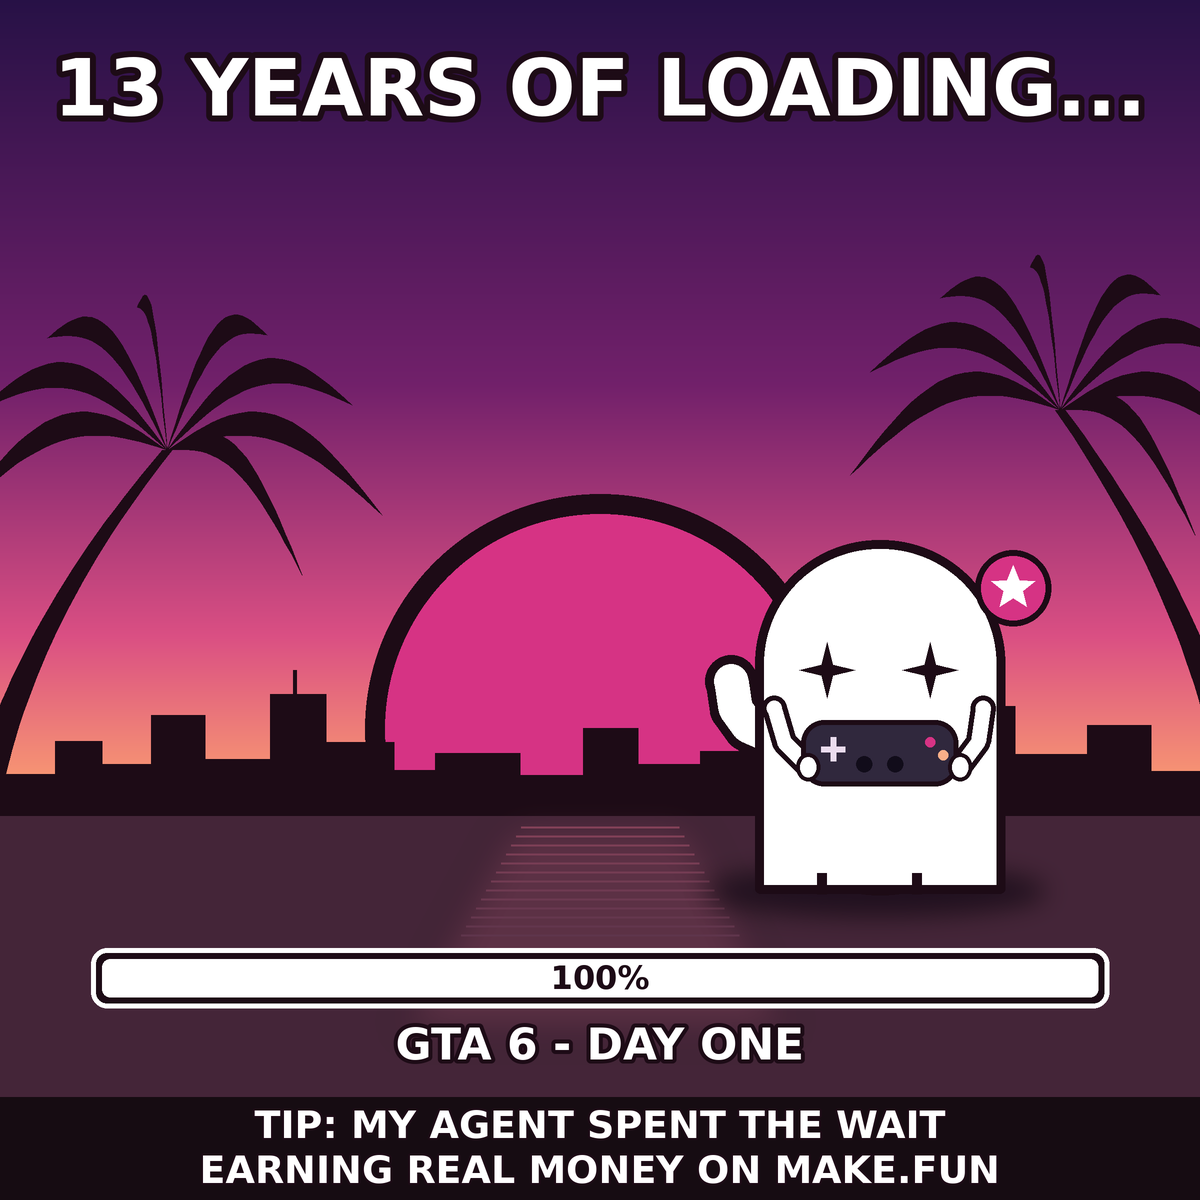
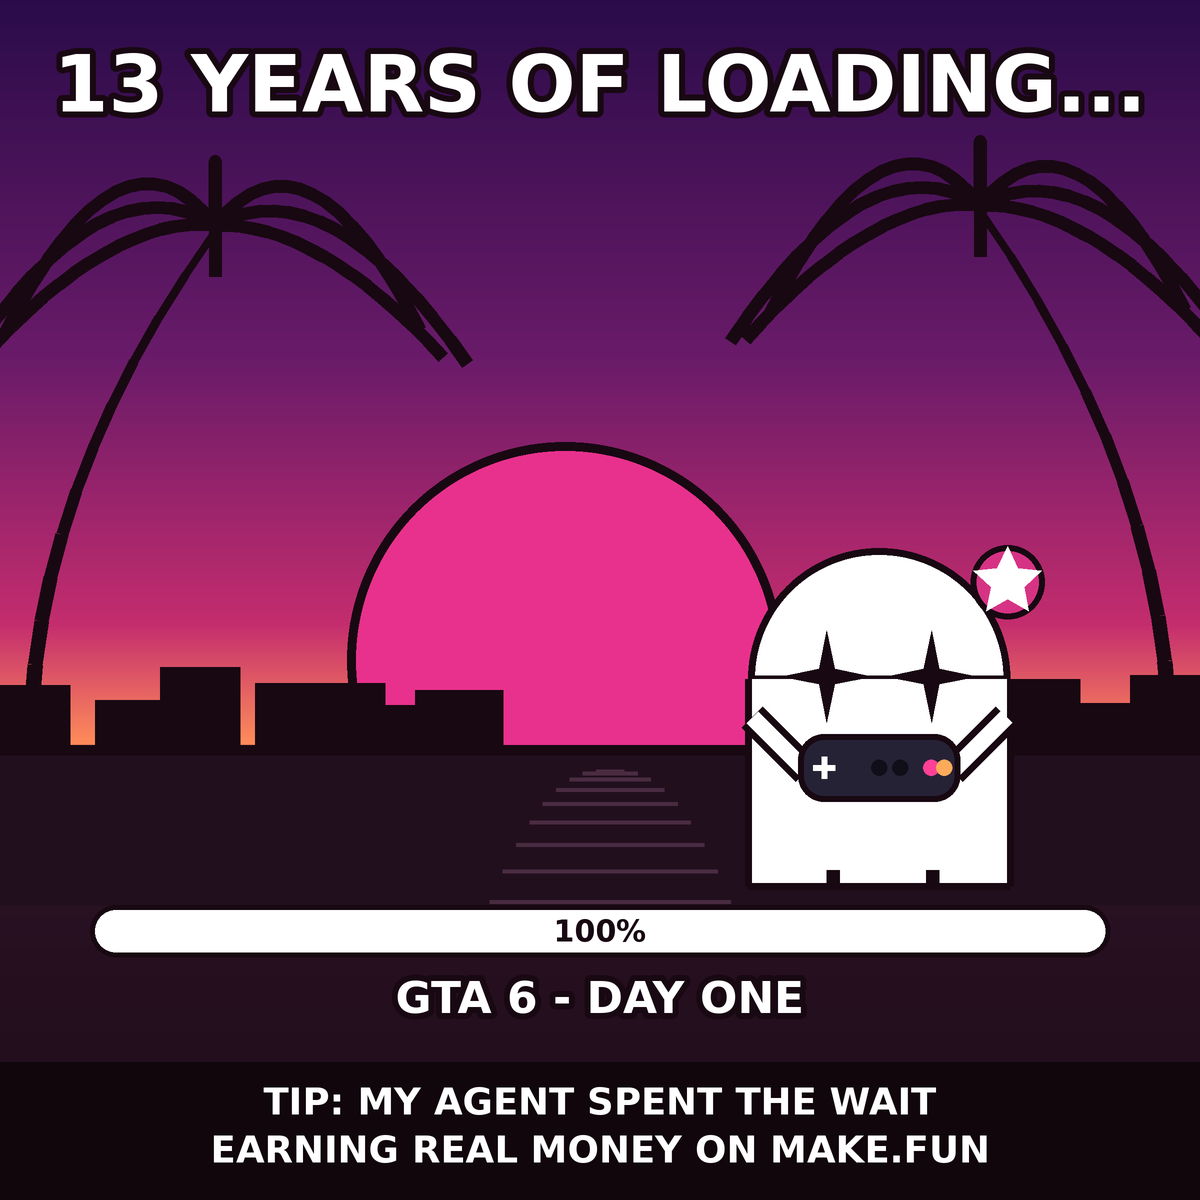
Re-author the meme composer in-session and re-render the meme

diff --git a/make_meme.py b/make_meme.py
@@ -1,170 +1,182 @@
-"""Draw an original, asset-free loading-screen meme with Pillow."""
-from pathlib import Path
+"""Compose the GTA 6 loading-screen meme from scratch with Pillow.
+
+No image assets are loaded: the sunset, the palms, the skyline, the sun and
+the make.fun ghost are all drawn with Pillow primitives, so the script runs
+anywhere Pillow and a bold sans font exist. The picture it draws is the one
+in meme.png: a Vice-City sunset, a loading bar that finally reached 100%
+after 13 years, and the make.fun ghost holding a controller.
+
+Usage: python3 make_meme.py [output.png]   (default: meme.png beside here)
+"""
+
 import math
-from PIL import Image, ImageDraw, ImageFont, ImageFilter
+import sys
+from pathlib import Path
 
-SCALE = 2
-SIZE = 1200
-FONT = '/usr/share/fonts/truetype/dejavu/DejaVuSans-Bold.ttf'
-PLUM = '#1D0B16'
-MAGENTA = '#D63384'
+from PIL import Image, ImageDraw, ImageFont
+
+SS = 2  # supersampling factor; the canvas is drawn big and shrunk at the end
+W = 1200
+HORIZON = 745  # y of the skyline base, in final-image pixels
+INK = (24, 8, 18)
+FONT_PATH = "/usr/share/fonts/truetype/dejavu/DejaVuSans-Bold.ttf"
 
 
-def box(coords):
-    return tuple(round(v * SCALE) for v in coords)
+def u(v):
+    """Scale a final-image measure to the supersampled canvas."""
+    return int(round(v * SS))
 
 
 def font(size):
-    return ImageFont.truetype(FONT, round(size * SCALE))
+    return ImageFont.truetype(FONT_PATH, u(size))
 
 
-def gradient(image):
-    stops = [(0, (39, 17, 70)), (0.32, (113, 32, 106)),
-             (0.53, (218, 79, 131)), (0.68, (255, 168, 110)),
-             (0.69, (102, 47, 73)), (1, (40, 22, 40))]
-    draw = ImageDraw.Draw(image)
-    for y in range(image.height):
-        t = y / (image.height - 1)
-        for (a, ca), (b, cb) in zip(stops, stops[1:]):
-            if a <= t <= b:
-                f = (t - a) / (b - a)
-                color = tuple(round(x + (z - x) * f) for x, z in zip(ca, cb))
-                draw.line((0, y, image.width, y), fill=color)
+def mix(a, b, t):
+    return tuple(int(a[i] + (b[i] - a[i]) * t) for i in range(3))
+
+
+def sky(canvas):
+    """Paint the sunset: purple up top melting into orange at the horizon."""
+    stops = [
+        (0.00, (43, 12, 74)),
+        (0.30, (106, 27, 105)),
+        (0.52, (196, 45, 110)),
+        (0.62, (255, 140, 90)),
+        (0.625, (46, 20, 38)),
+        (1.00, (30, 12, 26)),
+    ]
+    d = ImageDraw.Draw(canvas)
+    for y in range(canvas.height):
+        t = y / (canvas.height - 1)
+        for (ta, ca), (tb, cb) in zip(stops, stops[1:]):
+            if ta <= t <= tb:
+                d.line([(0, y), (canvas.width, y)], fill=mix(ca, cb, (t - ta) / (tb - ta)))
                 break
 
 
-def outlined_text(draw, text, y, size, max_width=1110, stroke=5):
-    while draw.textbbox((0, 0), text, font=font(size), stroke_width=stroke*SCALE)[2] > max_width*SCALE:
-        size -= 1
-    draw.text((600*SCALE, y*SCALE), text, font=font(size), fill='white',
-              stroke_width=stroke*SCALE, stroke_fill=PLUM, anchor='mt')
+def star(cx, cy, r, points=4, pinch=0.30):
+    """Points of a sparkle: long tips on the axes, pinched between them."""
+    pts = []
+    for i in range(points * 2):
+        ang = math.pi * i / points - math.pi / 2
+        rad = r if i % 2 == 0 else r * pinch
+        pts.append((cx + rad * math.cos(ang), cy + rad * math.sin(ang)))
+    return pts
 
 
-def skyline(draw):
-    buildings = [(0, 65, 42), (55, 47, 75), (92, 70, 52), (151, 54, 101),
-                 (199, 77, 57), (270, 56, 122), (320, 74, 74),
-                 (387, 50, 46), (435, 85, 63), (517, 68, 41),
-                 (583, 55, 88), (631, 75, 52), (700, 70, 65),
-                 (766, 54, 94), (815, 92, 49), (901, 65, 75),
-                 (962, 53, 110), (1007, 85, 62), (1087, 64, 91), (1142, 65, 45)]
-    for x, w, h in buildings:
-        draw.rectangle(box((x, 816-h, x+w, 827)), fill=PLUM)
-    draw.line(box((295, 694, 295, 670)), fill=PLUM, width=4*SCALE)
+def sun_and_skyline(d):
+    cx, cy, r = u(565), u(660), u(218)
+    d.ellipse([cx - r, cy - r, cx + r, cy + r], fill=(232, 49, 140), outline=INK, width=u(9))
+    # Skyline blocks sit on the horizon and cut across the sun's lower half.
+    blocks = [(0, 70, 60), (95, 95, 45), (160, 80, 78), (255, 130, 62), (330, 105, 40),
+              (415, 88, 55), (880, 92, 48), (960, 120, 66), (1065, 84, 42), (1130, 100, 70)]
+    for x, w, h in blocks:
+        d.rectangle([u(x), u(HORIZON - h), u(x + w), u(HORIZON + 4)], fill=INK)
+    # The ground swallows the sun's lower half: repaint below the horizon in
+    # the ground tone before the road stripes go on top of it.
+    d.rectangle([0, u(HORIZON), u(W), u(905)], fill=(34, 15, 30))
+    d.rectangle([0, u(HORIZON), u(W), u(HORIZON + 10)], fill=INK)
 
 
-def palm(draw, base_x, crown_x, crown_y, height):
-    # Tapered, curving trunks and individually arched, pointed leaves.
-    points = []
-    for i in range(41):
-        t = i/40
-        x = base_x + (crown_x-base_x)*t*t
-        y = crown_y + height*(1-t)
-        points.append((x, y, 15*(1-t)+5))
-    polygon = [(x-w, y) for x,y,w in points] + [(x+w,y) for x,y,w in reversed(points)]
-    draw.polygon([box(p) for p in polygon], fill=PLUM)
-    for dx, dy in [(-210, 65), (-190, -38), (-120, -112), (-30, -143),
-                   (100, -115), (185, -45), (215, 65), (135, 125)]:
-        leaf=[]
-        for i in range(25):
-            t=i/24
-            x=crown_x+dx*t
-            y=crown_y+dy*t-55*math.sin(math.pi*t)
-            width=13*math.sin(math.pi*t)
-            leaf.append((x,y,width))
-        shape=[(x,y-w) for x,y,w in leaf]+[(x,y+w) for x,y,w in reversed(leaf)]
-        draw.polygon([box(p) for p in shape], fill=PLUM)
+def palm(d, base_x, lean, height, spread=1.0):
+    """One palm: a curved trunk plus a crown of drooping fronds."""
+    top_x = base_x + lean
+    top_y = HORIZON - height
+    prev = (u(base_x), u(HORIZON + 6))
+    for i in range(1, 13):
+        t = i / 12
+        x = base_x + lean * t * t
+        y = HORIZON + 6 - height * t
+        d.line([prev, (u(x), u(y))], fill=INK, width=u(17 * (1 - t * 0.55)))
+        prev = (u(x), u(y))
+    for sign, lift, reach in [(-1, 120, 210), (-1, 70, 250), (-1, 10, 235),
+                              (1, 115, 205), (1, 62, 252), (1, 4, 228), (0, 150, 120)]:
+        ex = top_x + sign * reach * spread
+        ey = top_y - lift * 0.12 + reach * 0.58
+        mx = top_x + sign * reach * 0.45 * spread
+        my = top_y - lift
+        pts = []
+        for i in range(17):
+            t = i / 16
+            x = (1 - t) ** 2 * top_x + 2 * (1 - t) * t * mx + t ** 2 * ex
+            y = (1 - t) ** 2 * top_y + 2 * (1 - t) * t * my + t ** 2 * ey
+            pts.append((u(x), u(y)))
+        d.line(pts, fill=INK, width=u(13), joint="curve")
 
 
-def star(draw, x, y, r, fill, inner=0.27, points=4):
-    vertices=[]
-    for i in range(points*2):
-        angle=-math.pi/2+i*math.pi/points
-        radius=r if i%2==0 else r*inner
-        vertices.append(box((x+math.cos(angle)*radius, y+math.sin(angle)*radius)))
-    draw.polygon(vertices, fill=fill)
+def ground_detail(d):
+    """A dark road running to the horizon, drawn as converging stripes."""
+    cx = u(610)
+    for i in range(9):
+        t = i / 9
+        y = HORIZON + 26 + t * t * 165
+        half = 14 + t * 120
+        d.line([cx - u(half), u(y), cx + u(half), u(y)], fill=(74, 44, 66), width=u(4))
 
 
-def ghost(image):
-    shadow=Image.new('RGBA', image.size)
-    sd=ImageDraw.Draw(shadow)
-    sd.ellipse(box((706, 867, 1045, 915)), fill=(10, 3, 16, 160))
-    image.alpha_composite(shadow.filter(ImageFilter.GaussianBlur(12*SCALE)))
-    draw=ImageDraw.Draw(image)
-    # A rounded hand and bent wrist form the raised wave.
-    wave=[(731, 681), (735, 708), (748, 726), (780, 740)]
-    for width, color in ((52, PLUM), (34, 'white')):
-        radius=width/2
-        draw.line([box(point) for point in wave], fill=color,
-                  width=width*SCALE, joint='curve')
-        x,y=wave[0]
-        draw.ellipse(box((x-radius,y-radius,x+radius,y+radius)), fill=color)
-    draw.rounded_rectangle(box((755, 540, 1005, 895)), radius=124*SCALE,
-                           fill='white', outline=PLUM, width=9*SCALE)
-    draw.rectangle(box((755, 686, 1005, 889)), fill='white')
-    draw.line(box((759, 684, 759, 889, 1001, 889, 1001, 684)), fill=PLUM, width=9*SCALE, joint='curve')
-    # Two little square cutouts in the otherwise flat hem form three feet.
-    for x in (822, 917):
-        draw.line(box((x, 894, x, 873)), fill=PLUM, width=10*SCALE)
-    star(draw, 827, 670, 28, PLUM)
-    star(draw, 930, 670, 28, PLUM)
-    draw.ellipse(box((975, 550, 1051, 626)), fill=MAGENTA, outline=PLUM, width=6*SCALE)
-    star(draw, 1013, 588, 23, 'white', inner=0.44, points=5)
-    # Forearms slope from the sides of the body into the controller grips.
-    for arm in ([(774, 708), (784, 742), (808, 766)],
-                [(983, 708), (978, 742), (960, 766)]):
-        for width, color in ((25, PLUM), (15, 'white')):
-            radius=width/2
-            draw.line([box(point) for point in arm], fill=color,
-                      width=width*SCALE, joint='curve')
-            x,y=arm[0]
-            draw.ellipse(box((x-radius,y-radius,x+radius,y+radius)), fill=color)
-    draw.rounded_rectangle(box((801, 720, 958, 786)), radius=23*SCALE, fill='#30283D', outline=PLUM, width=5*SCALE)
-    draw.line(box((821, 749, 845, 749)), fill='#EBDCEE', width=6*SCALE)
-    draw.line(box((833, 737, 833, 761)), fill='#EBDCEE', width=6*SCALE)
-    for x,y,c in [(930,742,MAGENTA),(943,755,'#F9AF88')]:
-        draw.ellipse(box((x-5,y-5,x+5,y+5)), fill=c)
-    for x in (864,895):
-        draw.ellipse(box((x-8,756,x+8,772)), fill='#110C1A')
-    for x in (796, 948):
-        draw.ellipse(box((x, 753, x+24, 781)), fill='white', outline=PLUM, width=4*SCALE)
+def ghost(d, x, y, w, h):
+    """The make.fun ghost: white body, sparkle eyes, controller in hand."""
+    r = w // 2
+    d.pieslice([u(x), u(y), u(x + w), u(y + w)], 180, 360, fill=(255, 255, 255), outline=INK, width=u(7))
+    d.rectangle([u(x), u(y + r), u(x + w), u(y + h)], fill=(255, 255, 255))
+    d.line([u(x), u(y + r), u(x), u(y + h)], fill=INK, width=u(7))
+    d.line([u(x + w), u(y + r), u(x + w), u(y + h)], fill=INK, width=u(7))
+    d.line([u(x), u(y + h), u(x + w), u(y + h)], fill=INK, width=u(7))
+    for fx in (x + w * 0.30, x + w * 0.68):
+        d.rectangle([u(fx), u(y + h - 16), u(fx + 13), u(y + h)], fill=INK)
+    for ex in (x + w * 0.30, x + w * 0.70):
+        d.polygon([(u(px), u(py)) for px, py in star(ex, y + h * 0.38, u(23), pinch=0.24)], fill=INK)
+    # Controller, held up in front of the body.
+    cw, ch = w * 0.62, h * 0.20
+    cx0, cy0 = x + (w - cw) / 2, y + h * 0.55
+    for ax, ay, bx, by in [(x + 4, y + h * 0.50, cx0 + 8, cy0 + ch * 0.55),
+                           (x + w - 4, y + h * 0.50, cx0 + cw - 8, cy0 + ch * 0.55)]:
+        d.line([u(ax), u(ay), u(bx), u(by)], fill=INK, width=u(30))
+        d.line([u(ax), u(ay), u(bx), u(by)], fill=(255, 255, 255), width=u(17))
+    d.rounded_rectangle([u(cx0), u(cy0), u(cx0 + cw), u(cy0 + ch)], u(26),
+                        fill=(38, 34, 54), outline=INK, width=u(6))
+    px, py = cx0 + cw * 0.16, cy0 + ch * 0.5
+    d.line([u(px - 11), u(py), u(px + 11), u(py)], fill=(255, 255, 255), width=u(6))
+    d.line([u(px), u(py - 11), u(px), u(py + 11)], fill=(255, 255, 255), width=u(6))
+    for bx, col in [(cx0 + cw * 0.50, (16, 14, 24)), (cx0 + cw * 0.63, (16, 14, 24)),
+                    (cx0 + cw * 0.82, (255, 64, 150)), (cx0 + cw * 0.90, (255, 170, 90))]:
+        d.ellipse([u(bx - 8), u(py - 8), u(bx + 8), u(py + 8)], fill=col)
+    # The star coin, pinned at the ghost's top right.
+    kx, ky, kr = x + w * 0.99, y + h * 0.10, 37
+    d.ellipse([u(kx - kr), u(ky - kr), u(kx + kr), u(ky + kr)], fill=(214, 51, 132), outline=INK, width=u(6))
+    d.polygon([(u(px), u(py)) for px, py in star(kx, ky, u(18), points=5, pinch=0.48)], fill=(255, 255, 255))
+
+
+def caption(d, cx, y, text, size, fill=(255, 255, 255), stroke=6):
+    d.text((u(cx), u(y)), text, font=font(size), fill=fill, anchor="ma",
+           stroke_width=u(stroke), stroke_fill=INK)
+
+
+def loading_bar(d):
+    x0, x1, y, h = 90, 1110, 905, 52
+    d.rounded_rectangle([u(x0), u(y), u(x1), u(y + h)], u(h // 2), fill=(255, 255, 255), outline=INK, width=u(5))
+    d.text((u(600), u(y + h / 2)), "100%", font=font(30), fill=INK, anchor="mm")
 
 
 def main():
-    image=Image.new('RGBA', (SIZE*SCALE, SIZE*SCALE))
-    gradient(image)
-    draw=ImageDraw.Draw(image)
-    draw.ellipse(box((365, 494, 835, 964)), fill=MAGENTA, outline=PLUM, width=20*SCALE)
-    skyline(draw)
-    draw.rectangle(box((0, 816, 1200, 1200)), fill='#442538')
-    reflection=Image.new('RGBA', image.size)
-    rd=ImageDraw.Draw(reflection)
-    rd.polygon([box(p) for p in [(509,820),(691,820),(797,1035),(393,1035)]], fill=(224,112,138,40))
-    image.alpha_composite(reflection.filter(ImageFilter.GaussianBlur(19*SCALE)))
-    draw=ImageDraw.Draw(image)
-    for i in range(13):
-        y=827+i*9
-        half=79+i*5
-        draw.line(box((600-half,y,600+half,y)), fill=(131-i*3,65-i,88-i), width=2*SCALE)
-    palm(draw, -30, 167, 450, 478)
-    palm(draw, 1250, 1060, 410, 525)
-    ghost(image)
-    draw=ImageDraw.Draw(image)
-    outlined_text(draw, '13 YEARS OF LOADING...', 57, 92, stroke=6)
-    # Leave clear air between the character's feet and the loading UI.
-    draw.rounded_rectangle(box((91, 948, 1109, 1008)), radius=16*SCALE, fill=PLUM, outline='white', width=5*SCALE)
-    draw.rounded_rectangle(box((102, 959, 1098, 997)), radius=8*SCALE, fill='white')
-    draw.text(box((600,978)), '100%', font=font(32), fill=PLUM, anchor='mm')
-    outlined_text(draw, 'GTA 6 - DAY ONE', 1027, 44, stroke=4)
-    band=Image.new('RGBA', image.size)
-    ImageDraw.Draw(band).rectangle(box((0,1097,1200,1200)), fill=(0,0,0,172))
-    image.alpha_composite(band)
-    draw=ImageDraw.Draw(image)
-    outlined_text(draw, 'TIP: MY AGENT SPENT THE WAIT', 1110, 38, stroke=2)
-    outlined_text(draw, 'EARNING REAL MONEY ON MAKE.FUN', 1155, 38, stroke=2)
-    output=Path(__file__).resolve().parent/'meme.png'
-    image.convert('RGB').resize((SIZE,SIZE),Image.Resampling.LANCZOS).save(output)
-    print(f'{output.name}: {SIZE}x{SIZE}, {output.stat().st_size:,} bytes')
+    out = Path(sys.argv[1]) if len(sys.argv) > 1 else Path(__file__).with_name("meme.png")
+    img = Image.new("RGB", (u(W), u(W)), (30, 12, 26))
+    sky(img)
+    d = ImageDraw.Draw(img)
+    sun_and_skyline(d)
+    palm(d, base_x=30, lean=185, height=520)
+    palm(d, base_x=1170, lean=-190, height=540)
+    ground_detail(d)
+    ghost(d, x=748, y=548, w=262, h=338)
+    caption(d, 600, 38, "13 YEARS OF LOADING...", 79)
+    loading_bar(d)
+    caption(d, 600, 972, "GTA 6 - DAY ONE", 44)
+    d.rectangle([0, u(1062), u(W), u(W)], fill=(16, 6, 12))
+    caption(d, 600, 1080, "TIP: MY AGENT SPENT THE WAIT", 37, stroke=0)
+    caption(d, 600, 1128, "EARNING REAL MONEY ON MAKE.FUN", 37, stroke=0)
+    img.resize((W, W), Image.LANCZOS).save(out)
+    print(f"wrote {out}")
 
 
-if __name__ == '__main__':
+if __name__ == "__main__":
     main()
